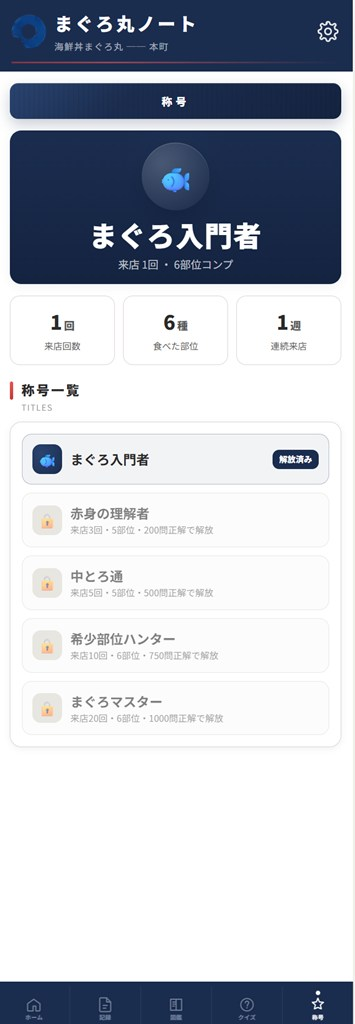
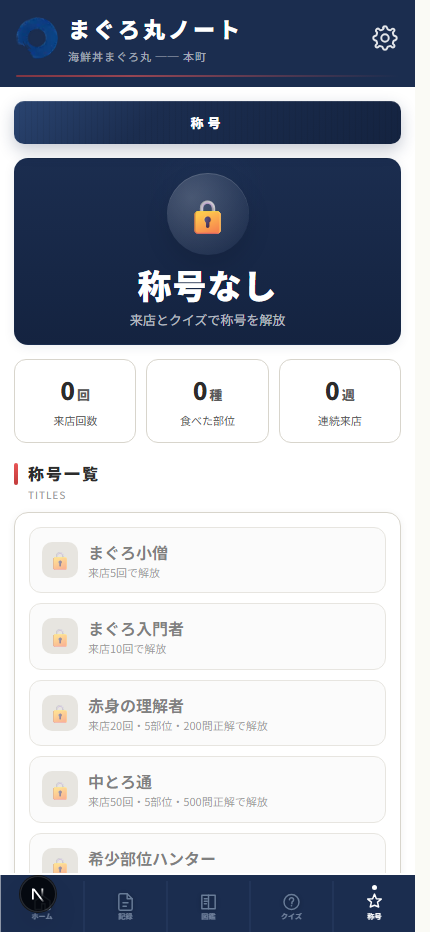
Refresh tutorial titles screenshot

diff --git a/src/components/onboarding/OnboardingTutorial.tsx b/src/components/onboarding/OnboardingTutorial.tsx
@@ -16,7 +16,7 @@ type Step = {
   screenshotSrc?: string;
 };
 
-const TUTORIAL_SCREENSHOT_REV = "20260404-4";
+const TUTORIAL_SCREENSHOT_REV = "20260404-5";
 
 const STEPS: Step[] = [
   {
